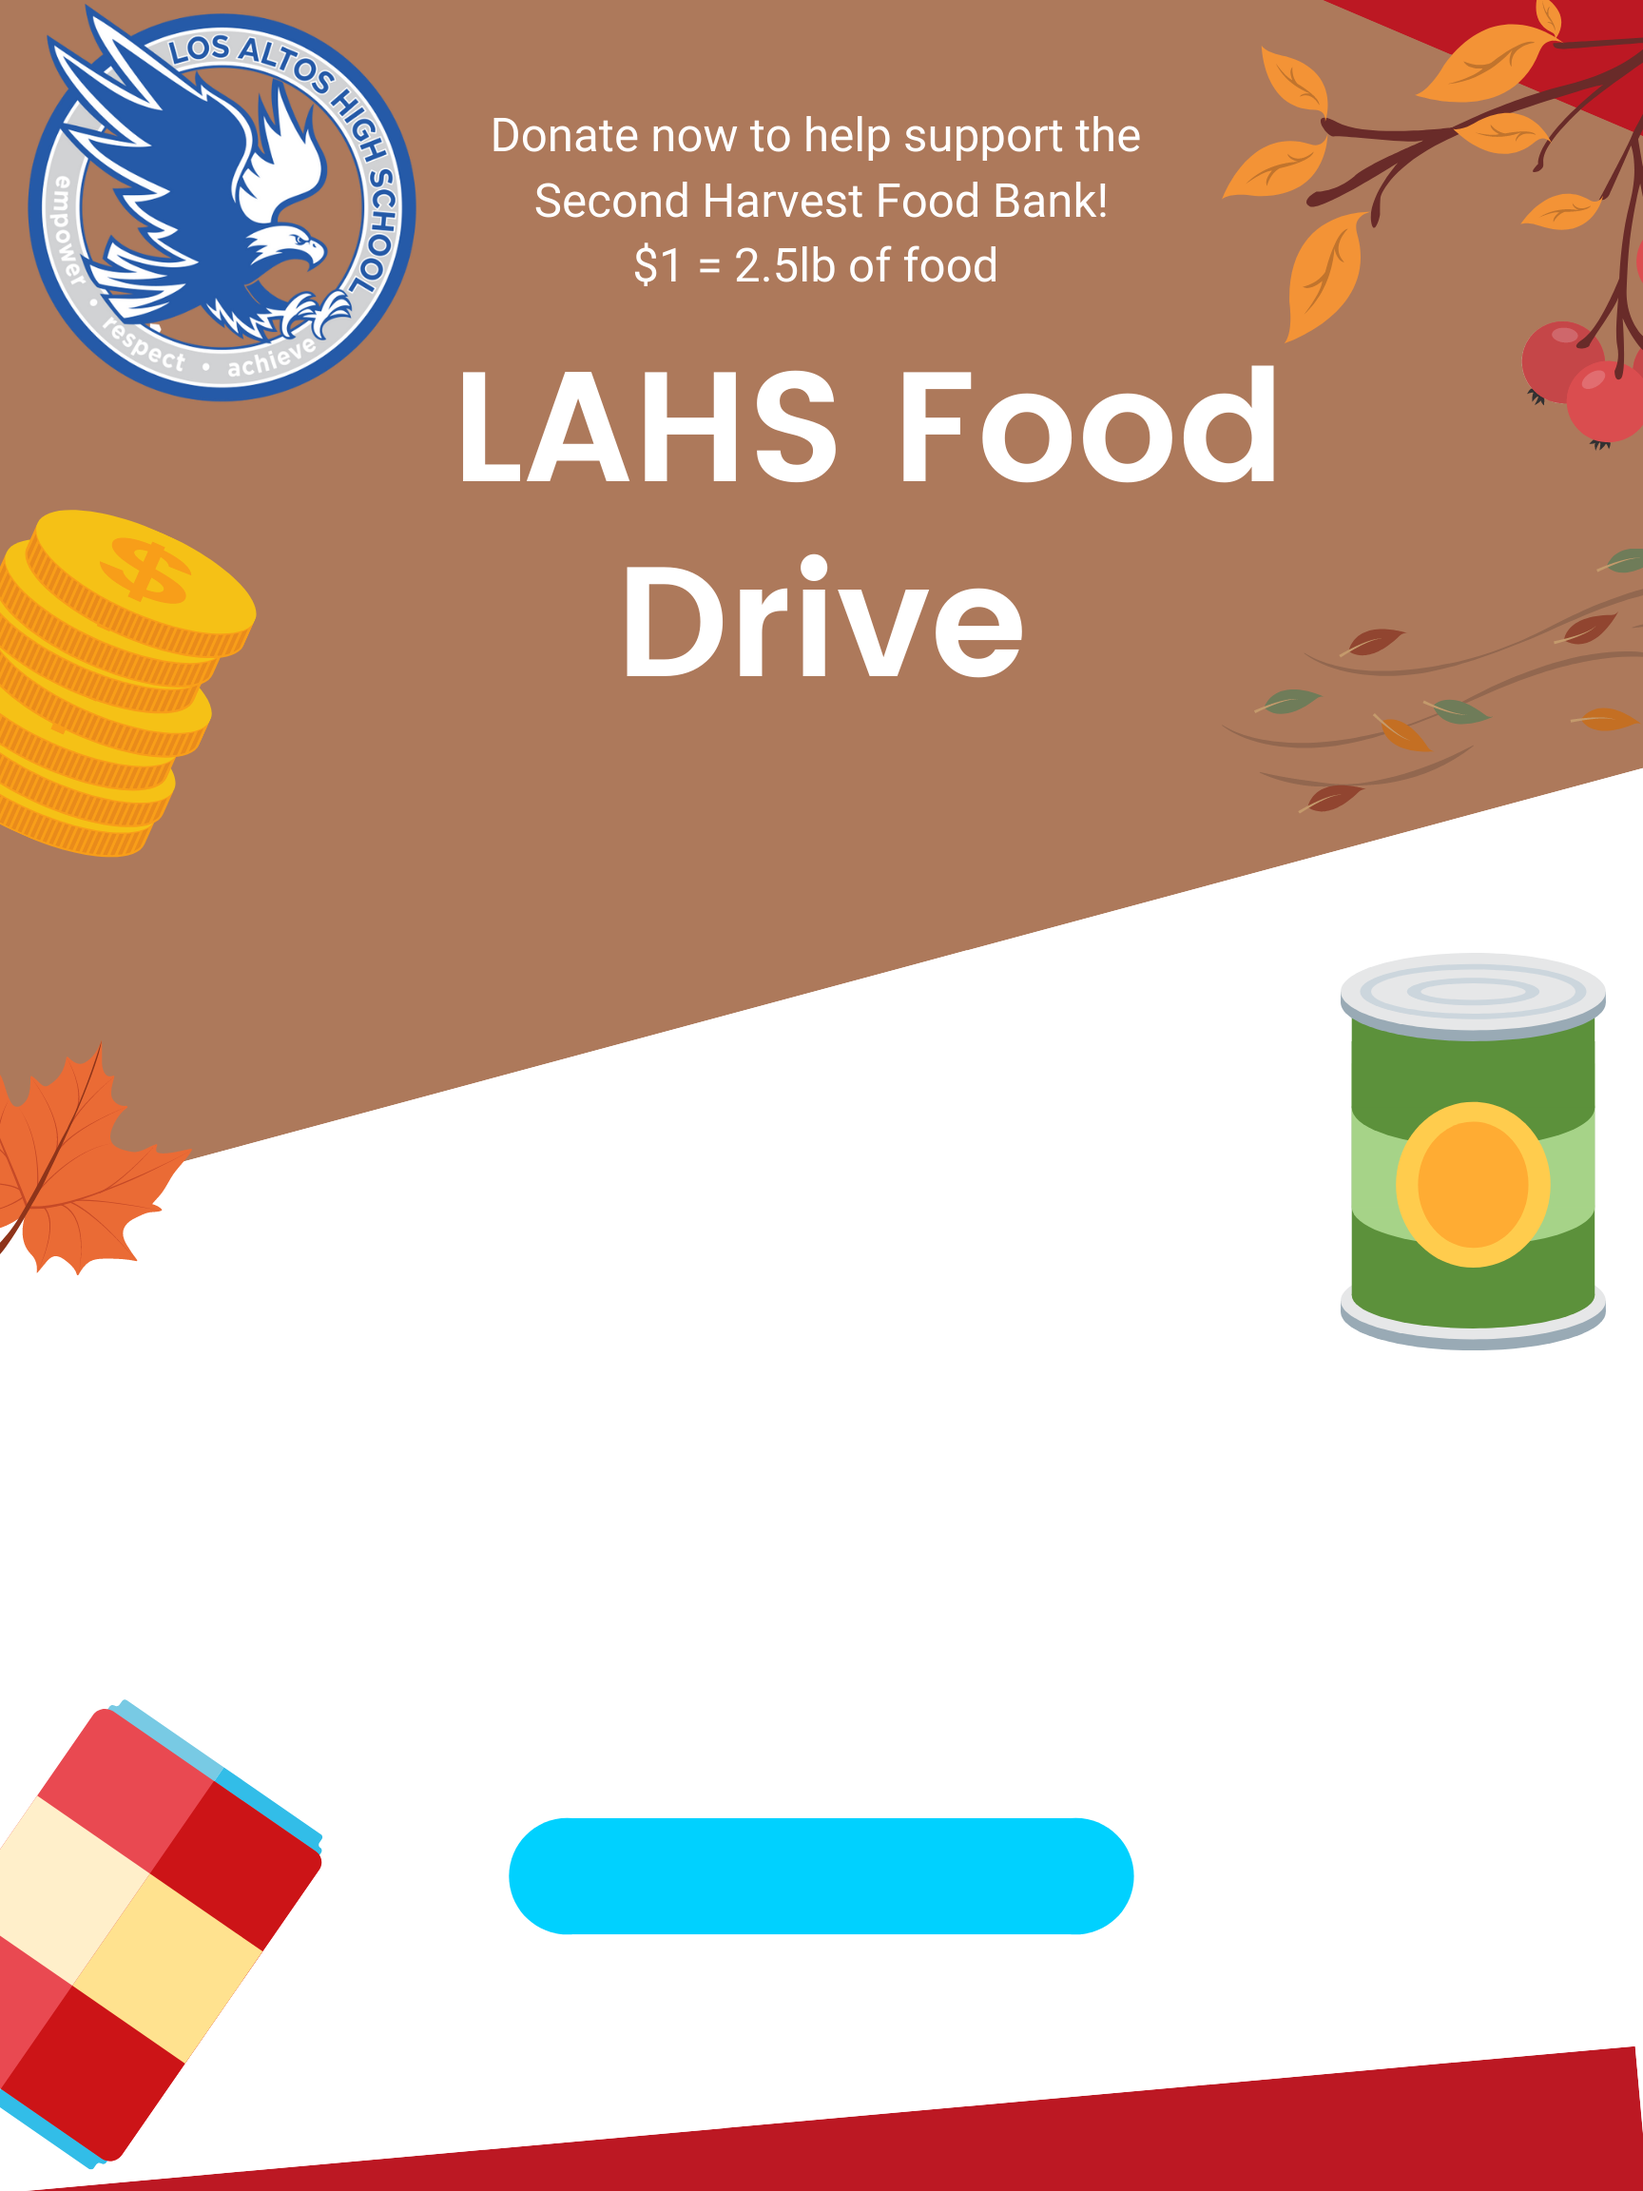
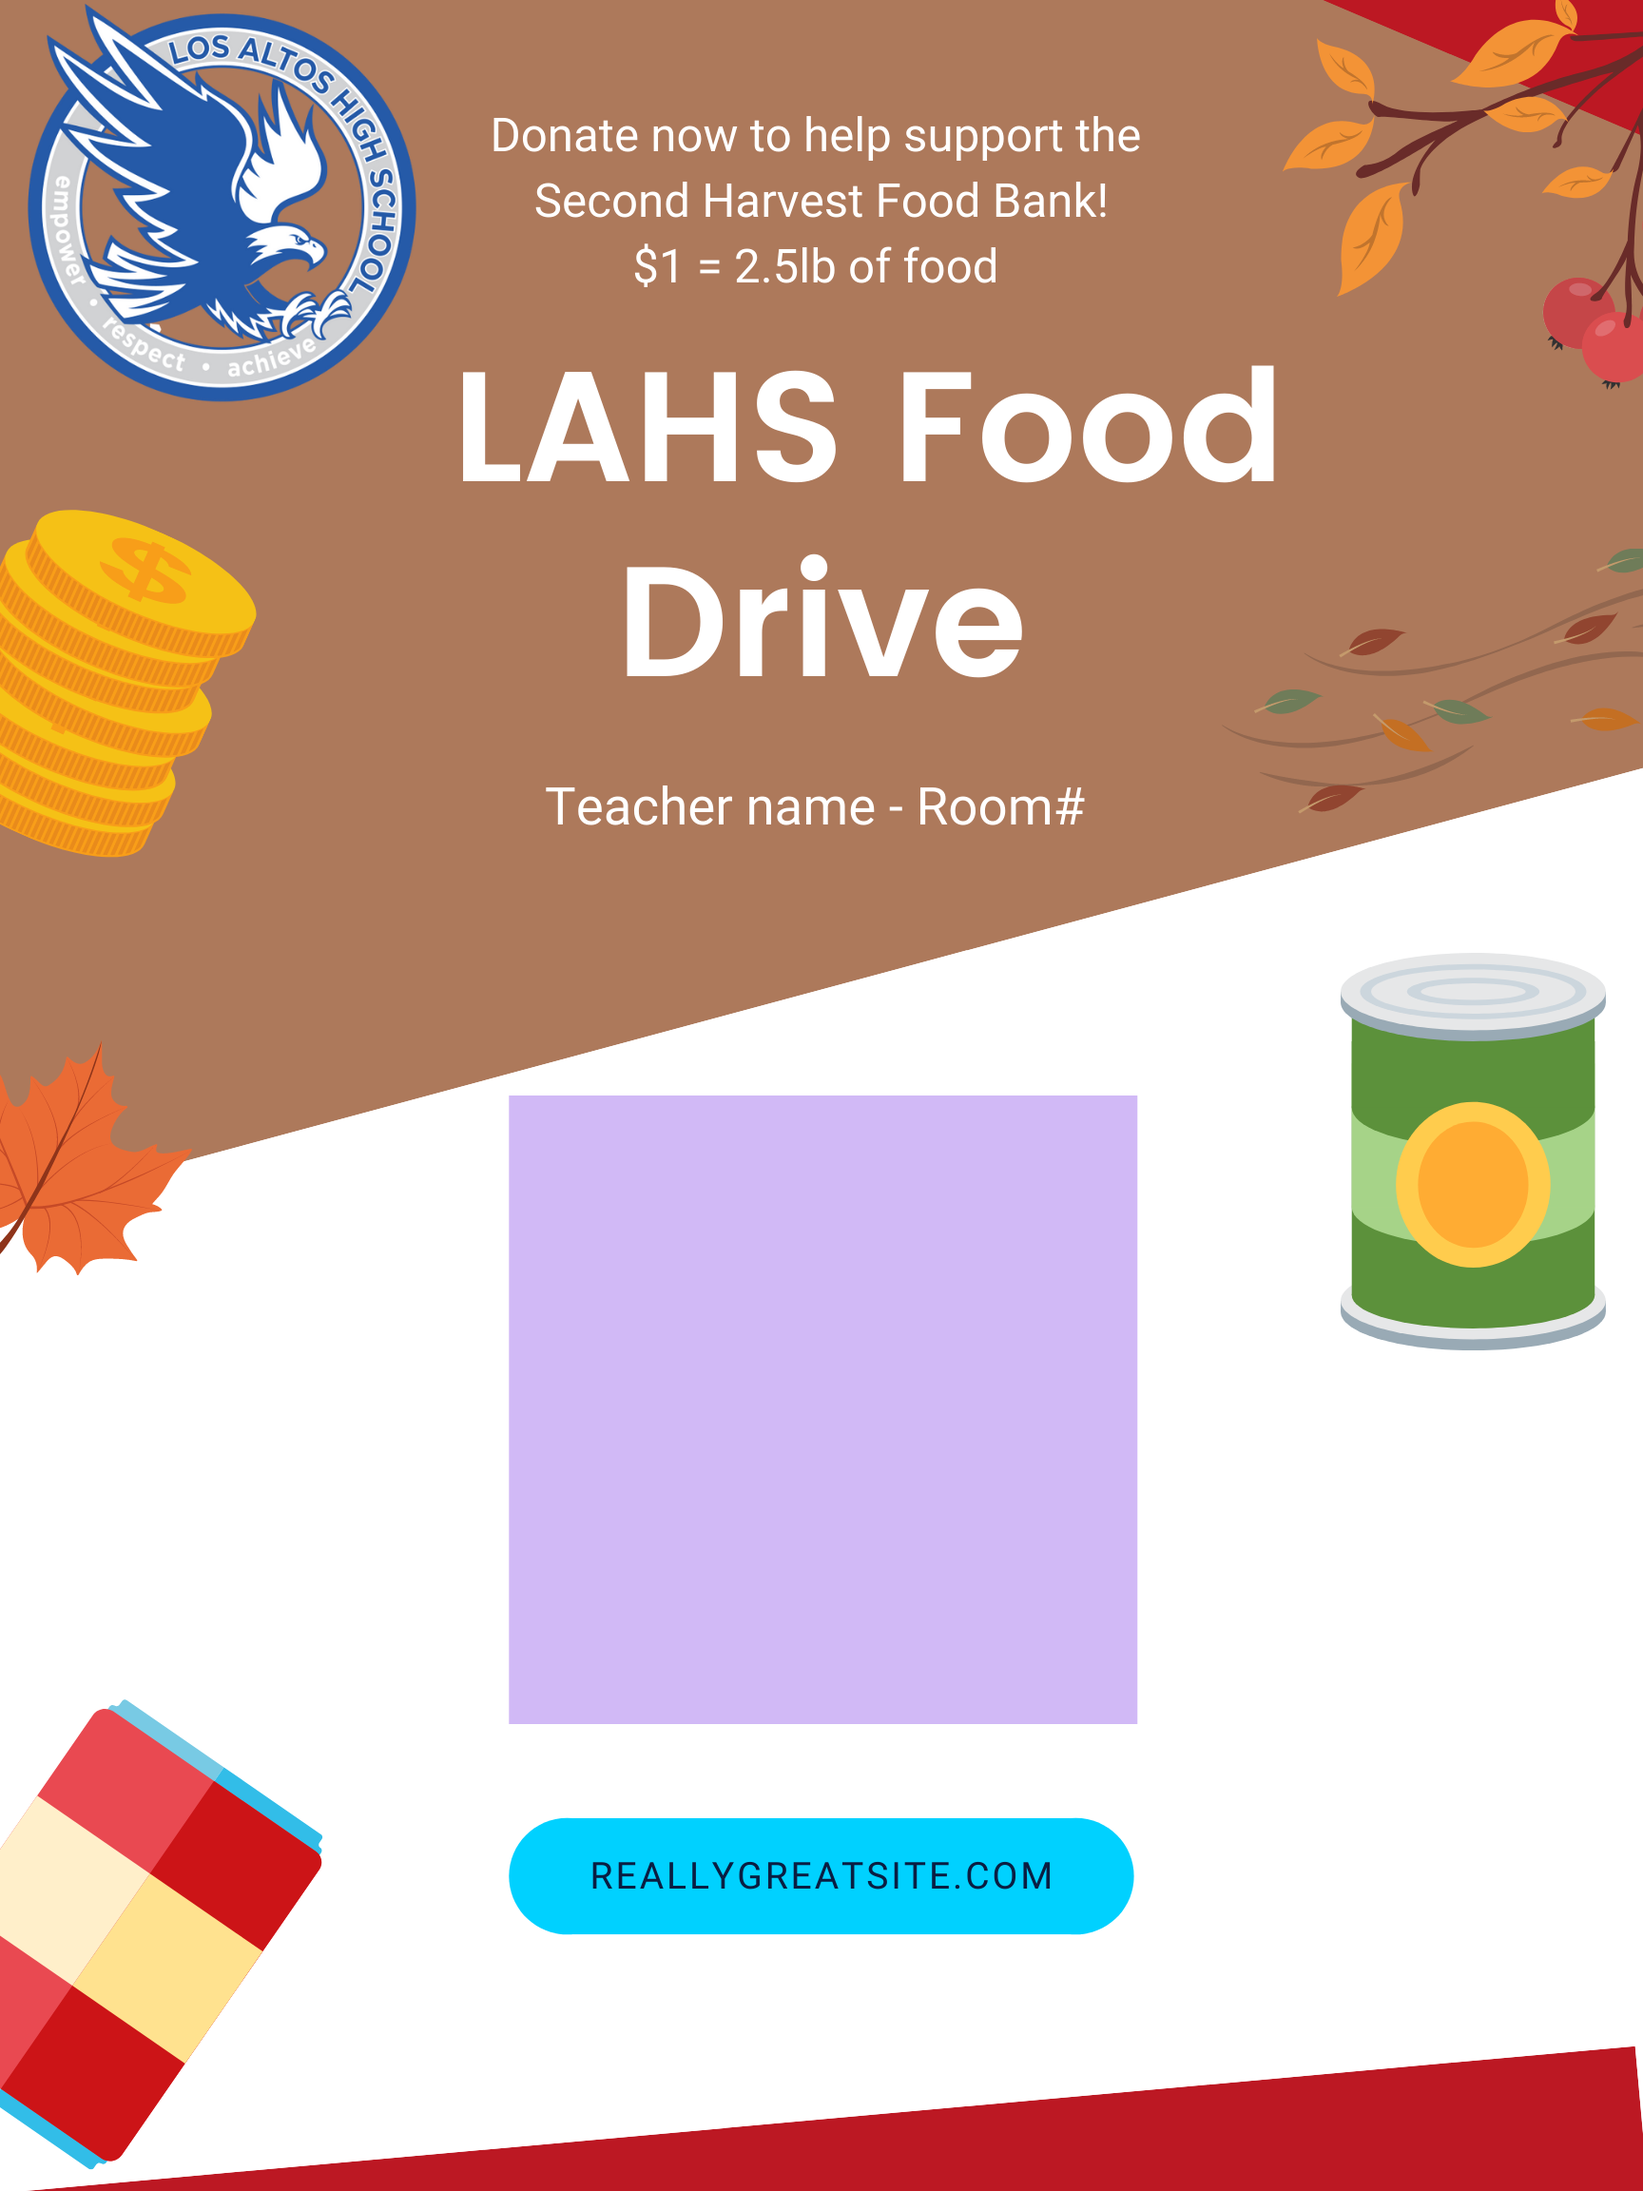
Starting to do positioning: edited the template to ake it a little bit better trying to figure out font size and positioning

diff --git a/GraphicDesigner.py b/GraphicDesigner.py
@@ -6,8 +6,8 @@ import qrcode
 Template_Path = Path("designs", "template.png")
 
 Fonts = {
-    "sub-header": ImageFont.truetype("Roboto-Regular.ttf", size=41.1),
-    "link": ImageFont.truetype("Roboto-Regular.ttf", size=29.2)
+    "sub-header": ImageFont.truetype("Roboto-Regular.ttf", size=63),
+    "link": ImageFont.truetype("Roboto-Regular.ttf", size=29)
 }
 
 def make_flyer(teacher_name, room_number, donation_link):
@@ -23,12 +23,27 @@ def make_flyer(teacher_name, room_number, donation_link):
 
     flyer_img = Image.open(Template_Path)
 
+    flyer_editor = ImageDraw.Draw(flyer_img)
+
+    sub_header = teacher_name + " - " + room_number
+
+    flyer_editor.text((550,500),sub_header, font=Fonts["sub-header"])
+
+    flyer_img.save("gggggg.png", "PNG")
     #qr_img = qr_code_generator(donation_link)
 
 
 def qr_code_generator(donation_link):
+    """
+    Makes qr code 
+
+    @param donation_link: link to donation link 
+
+    @return img object of qr code
+    """
     return qrcode.make(donation_link)
 
+#main for debugging and testing
 if __name__ == "__main__":
-    make_flyer("", "", "",)
+    make_flyer("fgds", "sfdgsdfg", "",)
     
